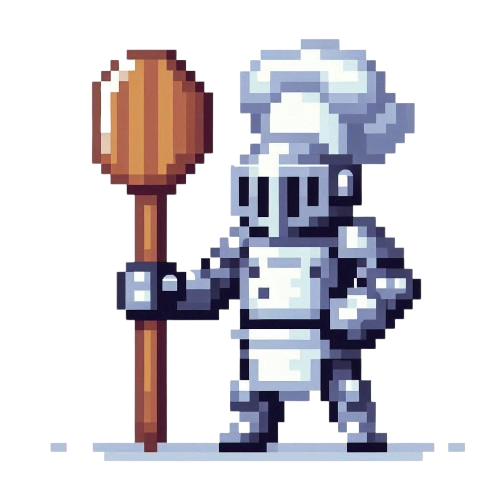
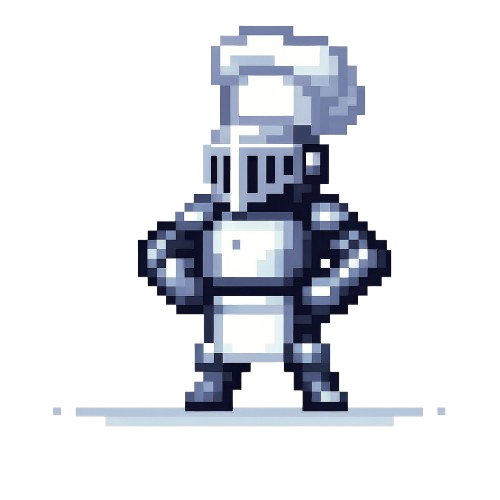
Atualizar Interface visual

diff --git a/candyknight/src/Interface/GameHUD.java b/candyknight/src/Interface/GameHUD.java
@@ -7,6 +7,7 @@ import Coletaveis.*;
 
 
 import java.awt.Color;
+import java.awt.*;
 import java.awt.Graphics;
 import java.awt.Graphics2D;
 import java.awt.Image;
@@ -73,18 +74,25 @@ public class GameHUD extends JPanel implements KeyListener,ActionListener{
     
     public void mostrarCelulas(Graphics2D g2d){
         this.tabuleiro = this.gameControl.getTabuleiro();
+        Image sprite;
+        
         
         for(int i=0;i<9;i++){
             if(this.tabuleiro.get(i).temEntidade()){
                 //desenhar entidade:
-                Image sprite = this.arquivo.getImage(this.tabuleiro.get(i).getEntidade().getNome());
+                sprite = this.arquivo.getImage(this.tabuleiro.get(i).getEntidade().getNome());
                 X = this.getPosXFromCard(i);
                 Y = this.getPosYFromCard(i);
-                this.desenharImagem(sprite,X,Y,this.sg.tamanhoSprite, g2d);
+                int vidaAtual = this.tabuleiro.get(i).getEntidade().getPontosDeVidaAtuais();
+                this.desenharEntidade(sprite,X,Y, g2d,vidaAtual);
                 
+                //Desenhar arma:
                 if(this.tabuleiro.get(i).getEntidade().getArmado()){
-                    
+                    sprite = this.arquivo.getImage(this.tabuleiro.get(i).getEntidade().getArma().getNome());
+                    int danoDaArma = this.tabuleiro.get(i).getEntidade().getPotencia();
+                    this.desenharArmaNaMao(sprite, X, Y, g2d,danoDaArma);
                 }
+                
             }
         }
     }
@@ -97,6 +105,28 @@ public class GameHUD extends JPanel implements KeyListener,ActionListener{
                 g2d.setColor(Color.ORANGE);
                 g2d.fillRect(X, Y, size, size);
             }
+    }
+    public void desenharEntidade(Image imagemArma,int X,int Y,Graphics2D g2d,int vida){
+        this.desenharImagem(imagemArma, X+(this.sg.cartaLargura-this.sg.tamanhoSprite)/2, Y+(this.sg.cartaAltura-this.sg.tamanhoSprite)/2, this.sg.tamanhoSprite, g2d);
+        
+        //apresentar HP
+        int xHP = X+this.sg.cartaLargura-30;
+        int yHP = Y+20;
+        
+        this.desenharImagem(this.arquivo.heartHP,xHP,yHP , 30, g2d);
+        
+        
+        g2d.setFont(new Font("Arial", Font.BOLD, 15));
+        g2d.setColor(Color.BLACK);
+        g2d.drawString(""+vida, xHP+5,yHP);
+    }
+    public void desenharArmaNaMao(Image imagemArma,int X,int Y,Graphics2D g2d,int dano){
+        this.desenharImagem(imagemArma, X-15, Y+45,(this.sg.tamanhoSprite-this.sg.tamanhoSprite/4), g2d);
+        //Apresentar força da arma que está sendo apresentada
+        g2d.setFont(new Font("Arial", Font.BOLD, 20));
+        g2d.setColor(Color.BLACK);
+        g2d.drawString(""+dano, X+10, Y+this.sg.cartaAltura-10);
+        
     }
     
     public void Mover(int direcao){

diff --git a/candyknight/src/Interface/ArquivosImagem.java b/candyknight/src/Interface/ArquivosImagem.java
@@ -7,9 +7,9 @@ import javax.imageio.ImageIO;
 
 public class ArquivosImagem {
     
-    /*public Image ursoDeGoma = this.getImage("/Imagens/ursoDeGoma.png");
-    public Image cavaleiro = this.getImage("/Imagens/player.png;*/
-    
+    public Image ursoDeGoma = this.InicializarImagens("/Imagens/ursoDeGoma.png");
+    public Image cavaleiro = this.InicializarImagens("/Imagens/player.png");
+    public Image heartHP = this.InicializarImagens("/Imagens/heartHP.png");
     
     
     public Image getImage(String nomeDaImagem){
@@ -17,6 +17,19 @@ public class ArquivosImagem {
         
         try {
             imagem = ImageIO.read(getClass().getResource("/Imagens/"+nomeDaImagem+".png"));
+            return imagem;
+        } catch (IOException | IllegalArgumentException e) {
+             // Adicionei IllegalArgumentException pois se a pasta estiver errada, o getResource retorna null
+            System.err.println("Erro ao carregar imagem (verifique se a pasta 'Imagens' está correta em Source Packages): " + e.getMessage());
+        }
+        
+        return null;
+    }
+    
+    public Image InicializarImagens(String nomeDaImagem){
+        Image imagem;
+        try {
+            imagem = ImageIO.read(getClass().getResource(nomeDaImagem));
             return imagem;
         } catch (IOException | IllegalArgumentException e) {
              // Adicionei IllegalArgumentException pois se a pasta estiver errada, o getResource retorna null

diff --git a/candyknight/src/Entidades/EntidadeJogo.java b/candyknight/src/Entidades/EntidadeJogo.java
@@ -3,7 +3,7 @@
  * Click nbfs://nbhost/SystemFileSystem/Templates/Classes/Class.java to edit this template
  */
 package Entidades;
-
+import Coletaveis.*;
 /**
  *
  * @author felip
@@ -15,6 +15,8 @@ public abstract class EntidadeJogo {
     private int pontosDeVidaAtuais;
     private int potencia; //capacidade de causar dano/curar
     private boolean armado;
+    private Coletavel armaEquipada;
+    
 
     public EntidadeJogo(String nome, int vidaMax, int potencia) {
         this.nome = nome;
@@ -84,5 +86,11 @@ public abstract class EntidadeJogo {
     }
     public void setArmado(boolean estado) {
         this.armado = estado;
+    }
+    public void setArma(Coletavel arma){
+        this.armaEquipada = arma;
+    }
+    public Coletavel getArma(){
+        return armaEquipada;
     }
 }

diff --git a/candyknight/src/Coletaveis/EspadaDeAlcacuz.java b/candyknight/src/Coletaveis/EspadaDeAlcacuz.java
@@ -14,11 +14,11 @@ public class EspadaDeAlcacuz implements Coletavel {
     private int novoAtaque;
 
     public EspadaDeAlcacuz() {
-        this.novoAtaque = 25;
+        this.novoAtaque = 5;
     }
     
     public String getNome() {
-        return "Espada de Alcaçuz";
+        return "espadaDeAlcacuz";
     }
     
     // Em EspadaDeAlcacuz.java
@@ -27,6 +27,8 @@ public class EspadaDeAlcacuz implements Coletavel {
         
         cavaleiro.setArmado(true);
 
+        cavaleiro.setArma(this);
+        
         cavaleiro.setPotencia(this.novoAtaque);
 
         System.out.println("Ataque aumentado para " + this.novoAtaque + "!");

diff --git a/candyknight/src/Entidades/Cavaleiro.java b/candyknight/src/Entidades/Cavaleiro.java
@@ -4,6 +4,7 @@
  */
 package Entidades;
 
+import Coletaveis.*;
 /**
  *
  * @author felip
@@ -16,10 +17,14 @@ public class Cavaleiro extends EntidadeJogo {
     // NOVOS CAMPOS PARA O ESCUDO
     private boolean escudoDeTrocaAtivo;
     private int duracaoEscudo;
-
+    private Coletavel armaInicial;
+            
     public Cavaleiro(String nome) {
-        super(nome, 100, 15);
+        super(nome, 10, 15);
         this.dinheiro = 0;
+        
+        armaInicial = new EspadaDeAlcacuz();
+        armaInicial.usar(this);
         
         // Inicializa os novos campos
         this.escudoDeTrocaAtivo = false;

diff --git a/candyknight/src/Backend/GameLogic.java b/candyknight/src/Backend/GameLogic.java
@@ -48,6 +48,7 @@ public class GameLogic {
         // 2. Adiciona o jogador (ex: posição 4, o centro)
         tabuleiro.get(4).setEntidade(new Entidades.Cavaleiro("player"));
         this.posicaoJogador = 4;
+        
 
         // 3. Adiciona monstros (ex: posições 1 e 7)
         tabuleiro.get(1).setEntidade(new Entidades.UrsoDeGoma());

diff --git a/candyknight/src/Interface/ScreenGame.java b/candyknight/src/Interface/ScreenGame.java
@@ -18,7 +18,7 @@ public class ScreenGame extends JLayeredPane{
     public int gridGap = 30;
     public int cartaAltura = 160;
     public int cartaLargura = 128; 
-    public int tamanhoSprite = 128;
+    public int tamanhoSprite = 100;
     
     
     GameHUD FrontPanel;

diff --git a/candyknight/src/Entidades/SoldadoGengibre.java b/candyknight/src/Entidades/SoldadoGengibre.java
@@ -10,7 +10,7 @@ package Entidades;
 public class SoldadoGengibre extends MonstroDoce {
 
     public SoldadoGengibre() {
-        super("Soldado de Gengibre", 50, 8, 20);
+        super("soldadoDeGengibre", 10, 8, 20);
     }
 
     public void atacar(EntidadeJogo alvo) {

diff --git a/candyknight/src/Entidades/UrsoDeGoma.java b/candyknight/src/Entidades/UrsoDeGoma.java
@@ -11,7 +11,7 @@ package Entidades;
 public class UrsoDeGoma extends MonstroDoce {
 
     public UrsoDeGoma() {
-        super("ursoDeGoma", 30, 5, 10);
+        super("ursoDeGoma", 6, 5, 10);
     }
 
     public void atacar(EntidadeJogo alvo) {
